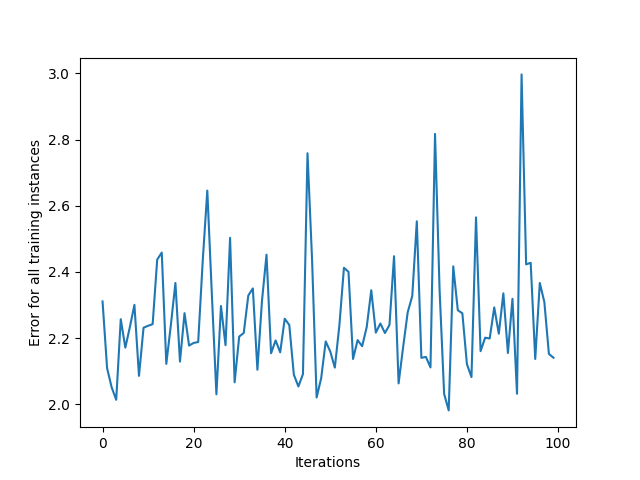
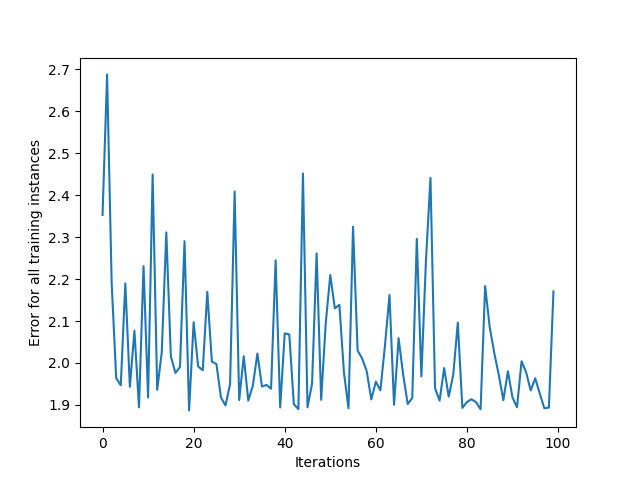
Fixed a typo that caused NN to not work properly

diff --git a/src/NeuralNetwork.py b/src/NeuralNetwork.py
@@ -41,8 +41,8 @@ class NeuralNetwork:
 
         return cumulative_errors
 
+    # Function np.exp: Calculate the exponential of all elements in the input array.
     def _sigmoid(self, x):
-        # Function np.exp: Calculate the exponential of all elements in the input array.
         return 1 / (1 + np.exp(-x))
 
     def _sigmoid_deriv(self, x):
@@ -60,14 +60,13 @@ class NeuralNetwork:
         prediction = layer_2
 
         derror_dprediction = 2 * (prediction - target)
-        dprediction_dlayer1 = self._sigmoid(layer_1)
+        dprediction_dlayer1 = self._sigmoid_deriv(layer_1)
         dlayer1_dbias = 1
         dlayer1_dweights = (0 * self.weights) + (1 * input_vector)
 
         derror_dbias = (
                 derror_dprediction * dprediction_dlayer1 * dlayer1_dbias
         )
-
         derror_dweights = (
                 derror_dprediction * dprediction_dlayer1 * dlayer1_dweights
         )
